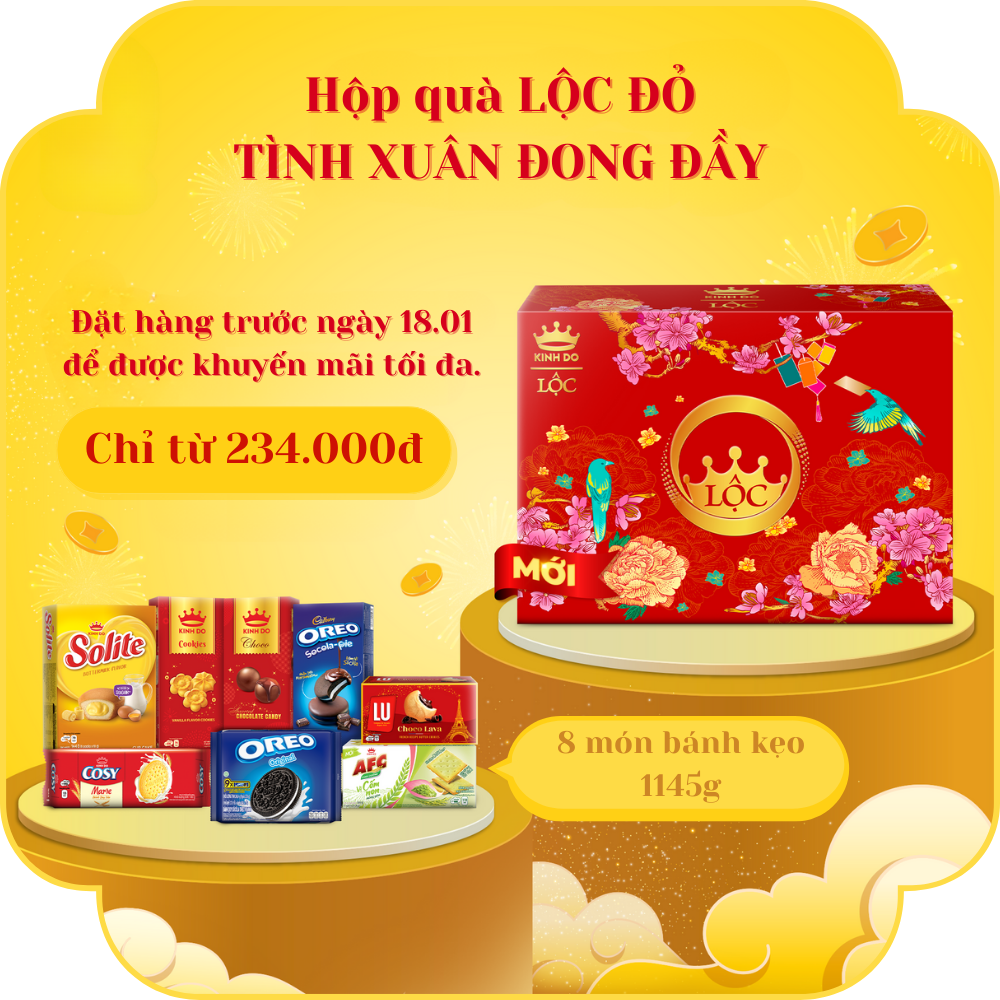
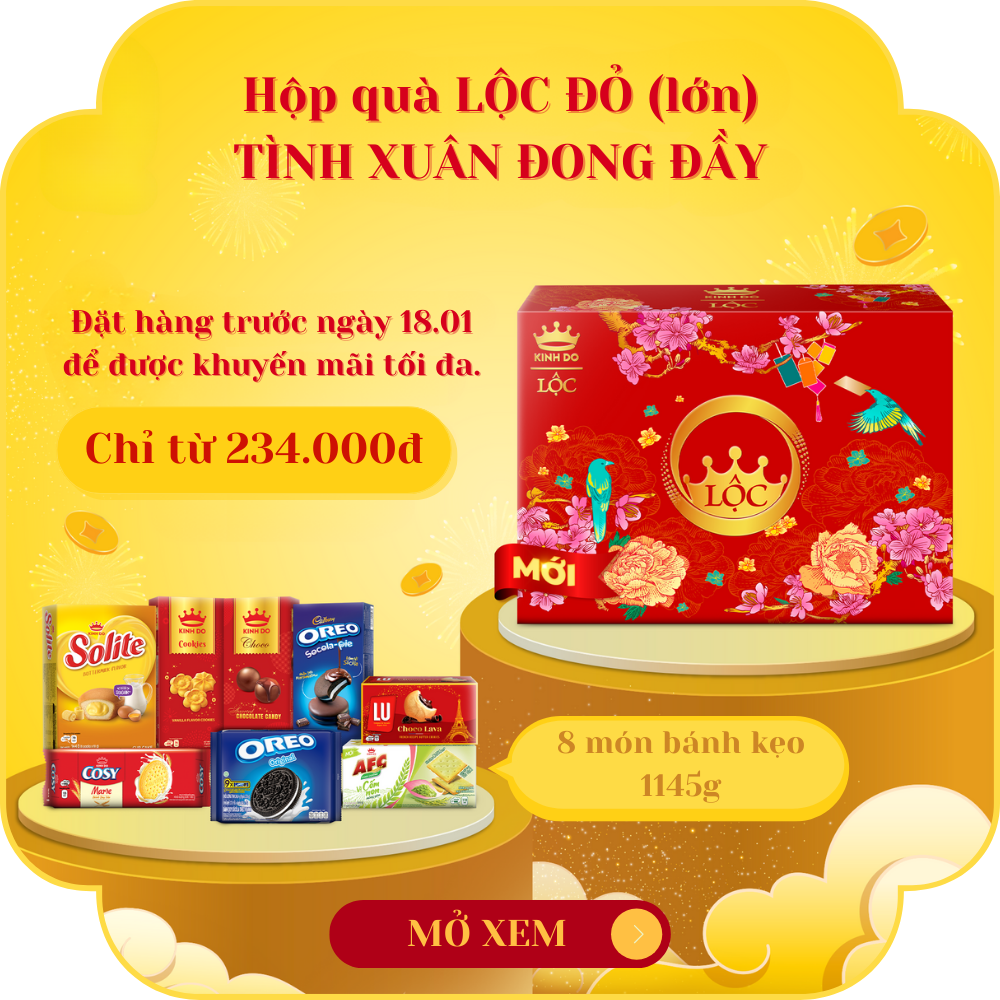
Add product slides

Changed region(s): [[0.31, 0.899, 0.682, 0.992], [0.248, 0.062, 0.775, 0.124]]

diff --git a/index.html b/index.html
@@ -6,6 +6,7 @@
     <meta name="viewport" content="width=device-width, initial-scale=1.0">
     <title>Quà Tết Lộc Xuân Kinh Đô 2024 | Thới Lai, Cần Thơ</title>
     <link rel="stylesheet" href="./style.css">
+    <script src="https://rawcdn.githack.com/nextapps-de/spotlight/0.7.8/dist/spotlight.bundle.js"></script>
 </head>
 
 <body>
@@ -16,8 +17,8 @@
                 <img src="./images/banner.png" />
             </div>
             <div class="products content-row">
-                <img src="./images/loc-vang.png" />
-                <img src="./images/loc-do.png" />
+                <img src="./images/loc-do.png" onclick="onClickRedEntryPoint()"/>
+                <img src="./images/loc-vang.png" onclick="onClickYellowEntryPoint()" />
             </div>
             <div class="promotion content-row">
                 <h2 class="title">Khuyến mãi</h2>
@@ -46,6 +47,26 @@
             Địa chỉ: ấp Thới Thuận A, thị trấn Thới Lai, huyện Thới Lai, Cần Thơ
         </div>
     </div>
+    <script>
+        var redGallery = [
+            { src: "./images/loc-do.png" },
+            { src: "./images/loc-do-slide1.png" },
+            { src: "./images/loc-do-slide2.png" },
+            { src: "./images/loc-do-slide3.png" },
+        ];
+        var onClickRedEntryPoint = () => {
+            Spotlight.show(redGallery);
+        }
+        var yellowGallery = [
+            { src: "./images/loc-vang.png" },
+            { src: "./images/loc-vang-slide1.png" },
+            { src: "./images/loc-vang-slide2.png" },
+            { src: "./images/loc-vang-slide3.png" },
+        ];
+        var onClickYellowEntryPoint = () => {
+            Spotlight.show(yellowGallery);
+        }
+    </script>
 </body>
 
 </html>

diff --git a/style.css b/style.css
@@ -104,6 +104,10 @@ body {
   padding: 8px;
 }
 
+.container .content .products img:hover {
+  cursor: pointer;
+}
+
 .container .content .content-row {
   display: flex;
   align-items: center;
